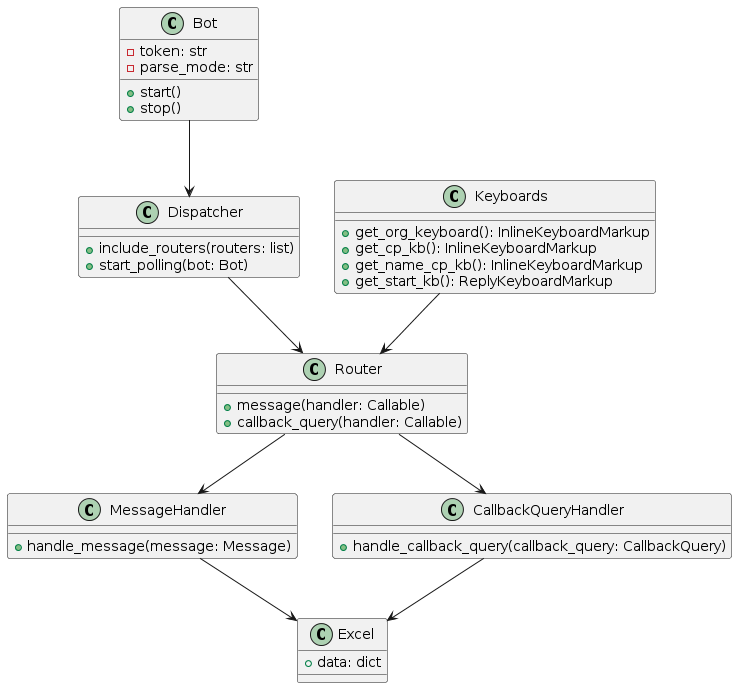
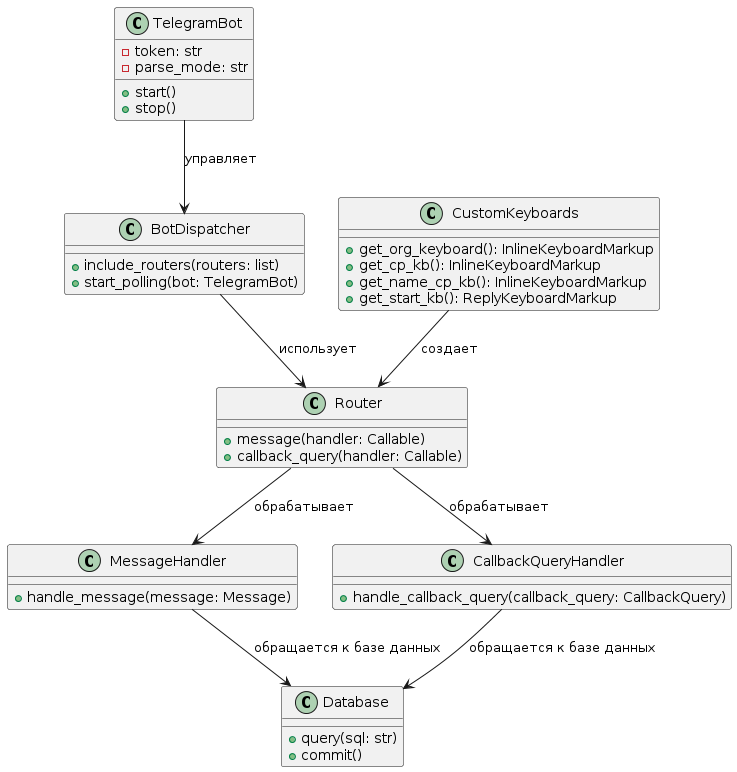
edited lab 3

Changed region(s): [[0.0, 0.2442, 0.9986, 1.0], [0.156, 0.0, 0.3433, 0.2137], [0.8738, 0.3968, 0.905, 0.4273]]

diff --git a/docs/struct.md b/docs/struct.md
@@ -6,83 +6,52 @@
 
 ### Диаграмма классов представляет собой описание структуры и взаимодействия классов в приложении.
 
-1. Bot
+1. **Bot (Телеграм Бот)**:
+    - **Атрибуты**:
+        - `token: str` - Токен для аутентификации Telegram бота.
+        - `parse_mode: str` - Режим парсинга сообщений (например, HTML).
+    - **Методы**:
+        - `start()` - Метод для запуска бота.
+        - `stop()` - Метод для остановки бота.
 
-- Атрибуты:
+2. **Dispatcher (Диспетчер)**:
+    - **Методы**:
+        - `include_routers(routers: list)` - Метод для включения маршрутизаторов.
+        - `start_polling(bot: Bot)` - Метод для запуска обработки событий.
 
-token: str - Токен для аутентификации Telegram бота.
+3. **Router (Маршрутизатор)**:
+    - **Методы**:
+        - `message(handler: Callable)` - Метод для добавления обработчика сообщений.
+        - `callback_query(handler: Callable)` - Метод для добавления обработчика callback-запросов.
 
-parse_mode: str - Режим парсинга сообщений (например, HTML).
-- Методы:
+4. **MessageHandler (Обработчик сообщений)**:
+    - **Методы**:
+        - `handle_message(message: Message)` - Метод для обработки входящих сообщений.
 
-start() - Метод для запуска бота.
+5. **CallbackQueryHandler (Обработчик callback-запросов)**:
+    - **Методы**:
+        - `handle_callback_query(callback_query: CallbackQuery)` - Метод для обработки callback-запросов.
 
-stop() - Метод для остановки бота.
-- Описание:
+6. **Database (База данных)**:
+    - **Методы**:
+        - `query(sql: str)` - Метод для выполнения SQL-запросов.
+        - `commit()` - Метод для фиксации транзакции.
 
-Класс Bot представляет самого Telegram бота. Он отвечает за инициализацию и управление ботом.
+7. **CustomKeyboards (Пользовательские клавиатуры)**:
+    - **Методы**:
+        - `get_org_keyboard(): InlineKeyboardMarkup` - Метод для создания клавиатуры с информацией о должностных лицах.
+        - `get_cp_kb(): InlineKeyboardMarkup` - Метод для создания клавиатуры с контент-планом.
+        - `get_name_cp_kb(): InlineKeyboardMarkup` - Метод для создания клавиатуры с названиями постов.
+        - `get_start_kb(): ReplyKeyboardMarkup` - Метод для создания стартовой клавиатуры.
 
-2. Dispatcher
+#### Взаимосвязи
 
-- Методы:
+- `Bot` использует `Dispatcher` для диспетчеризации событий и сообщений.
+- `Dispatcher` использует `Router` для маршрутизации сообщений и callback-запросов.
+- `Router` управляет обработчиками сообщений (`MessageHandler`) и callback-запросов (`CallbackQueryHandler`).
+- Обработчики сообщений (`MessageHandler`) и callback-запросов (`CallbackQueryHandler`) взаимодействуют с классом `Database` для получения данных.
+- Класс `CustomKeyboards` предоставляет методы для создания клавиатур, которые используются в `Router` для взаимодействия с пользователями.
 
-include_routers(routers: list) - Метод для включения маршрутизаторов.
-
-start_polling(bot: Bot) - Метод для запуска обработки событий.
-- Описание:
-
-Класс Dispatcher отвечает за диспетчеризацию событий и сообщений, поступающих от бота. Он координирует работу различных маршрутизаторов.
-
-3. Router
-
-- Методы:
-
-message(handler: Callable) - Метод для добавления обработчика сообщений.
-
-callback_query(handler: Callable) - Метод для добавления обработчика callback-запросов.
-- Описание:
-
-Класс Router управляет маршрутизацией сообщений и callback-запросов к соответствующим обработчикам.
-
-4. MessageHandler
-
-- Методы:
-
-handle_message(message: Message) - Метод для обработки входящих сообщений.
-- Описание:
-
-Класс MessageHandler представляет обработчик сообщений, который выполняет действия в ответ на полученные сообщения.
-
-5. CallbackQueryHandler
-
-- Методы:
-
-handle_callback_query(callback_query: CallbackQuery) - Метод для обработки callback-запросов.
-- Описание:
-
-Класс CallbackQueryHandler представляет обработчик callback-запросов, который выполняет действия в ответ на полученные callback-запросы.
-
-6. Keyboards
-
-- Методы:
-
-get_org_keyboard(): InlineKeyboardMarkup - Метод для создания клавиатуры с информацией о должностных лицах.
-
-get_cp_kb(): InlineKeyboardMarkup - Метод для создания клавиатуры с контент-планом.
-
-get_name_cp_kb(): InlineKeyboardMarkup - Метод для создания клавиатуры с названиями постов.
-
-get_start_kb(): ReplyKeyboardMarkup - Метод для создания стартовой клавиатуры.
-- Описание:
-
-Класс Keyboards содержит методы для создания различных типов клавиатур, используемых в боте.
-- Взаимосвязи между классами:
-
-Bot использует Dispatcher для диспетчеризации событий и сообщений.
-Dispatcher использует Router для маршрутизации сообщений и callback-запросов.
-Router управляет обработчиками сообщений (MessageHandler) и callback-запросов (CallbackQueryHandler).
-Обработчики сообщений (MessageHandler) и callback-запросов (CallbackQueryHandler) взаимодействуют с классом Excel для получения данных.
-Класс Keyboards предоставляет методы для создания клавиатур, которые используются в Router для взаимодействия с пользователями.
 
 ## ДИАГРАММА КОМПОНЕНТОВ
 
@@ -151,10 +120,9 @@ Router управляет обработчиками сообщений (Message
 
 Компонент для работы с файловыми хранилищами (например, загрузка и скачивание файлов).
 
-Взаимосвязи между компонентами:
+#### Взаимосвязи
 - Bot взаимодействует с Dispatcher для инициализации и управления ботом.
 - Dispatcher использует Router для маршрутизации сообщений и callback-запросов к соответствующим обработчикам.
 - Router направляет сообщения и callback-запросы к MessageHandler и CallbackQueryHandler соответственно.
 - MessageHandler и CallbackQueryHandler взаимодействуют с компонентами из пакета Database для получения и сохранения данных.
 - MessageHandler и CallbackQueryHandler также могут взаимодействовать с компонентами из пакета External Services для выполнения внешних API-запросов и работы с файлами.
-
